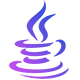
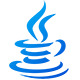
Fixed 4k screen bug

Changed region(s): [[0.1, 0.175, 0.875, 1.0], [0.325, 0.0, 0.575, 0.525], [0.675, 0.475, 0.825, 0.725]]

diff --git a/css/style.css b/css/style.css
@@ -34,13 +34,13 @@ html{
 }
 
 .header_area .main-menu .navbar-nav .active a{
-    background: linear-gradient(90deg,#4458dc,#854fee);
+    background: var(--gradient-color);
     -webkit-background-clip: text;
     -webkit-text-fill-color: transparent;
     background-clip: text;
 }
 .header_area .main-menu .navbar-nav a:hover{
-    background: linear-gradient(90deg,#4458dc,#854fee);
+    background: var(--gradient-color);
     -webkit-background-clip: text;
     -webkit-text-fill-color: transparent;
     background-clip: text;

diff --git a/css/responsive.css b/css/responsive.css
@@ -79,3 +79,12 @@
 		padding: 3% 4%;
 	}
 }
+
+@media only screen and (min-width:2560px)
+{
+	body > main > section.project-area > div > div.row.grid > div > div > div.img > a > img{
+    
+		width: 11vw;
+		height: auto;
+	}
+}
